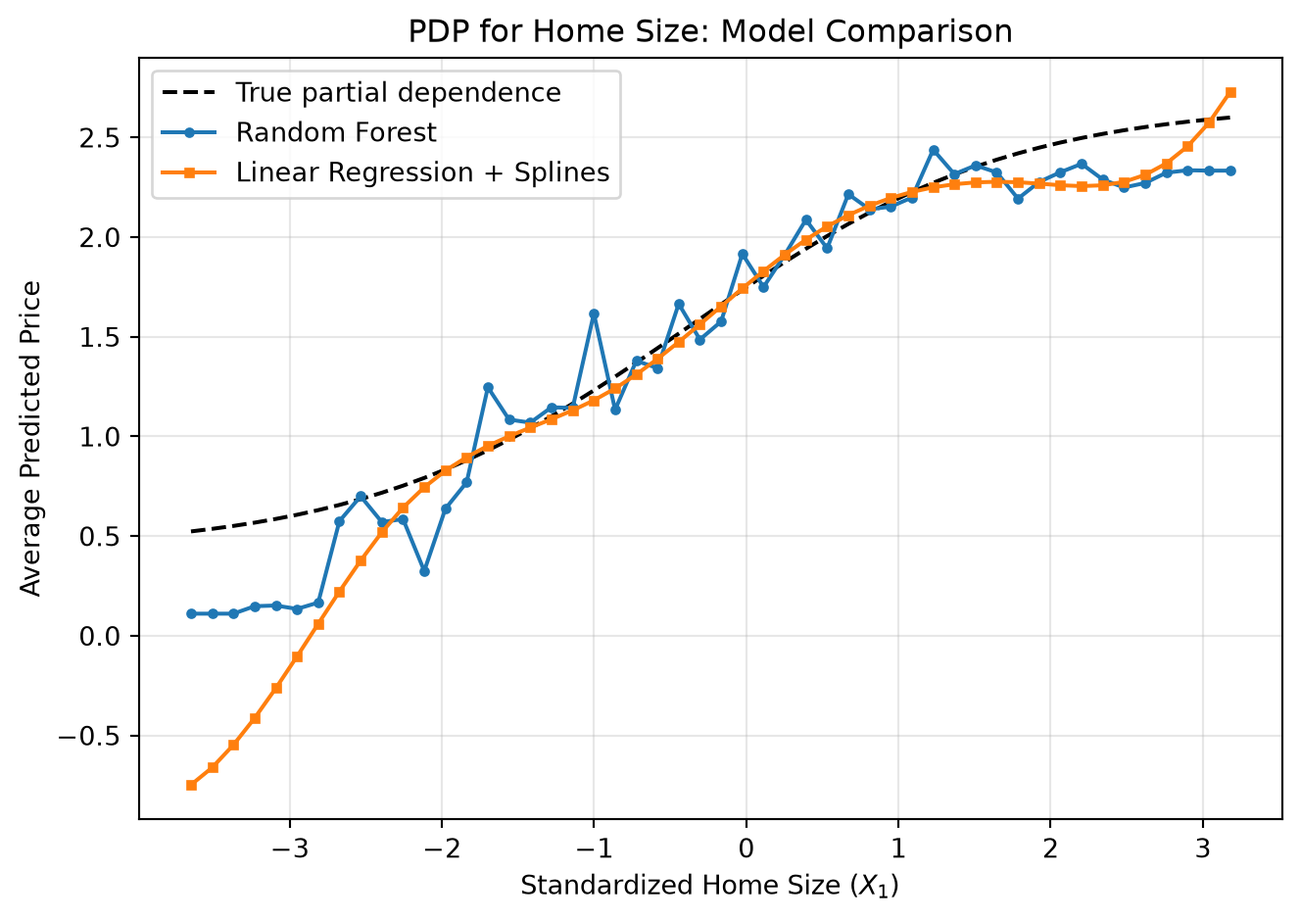
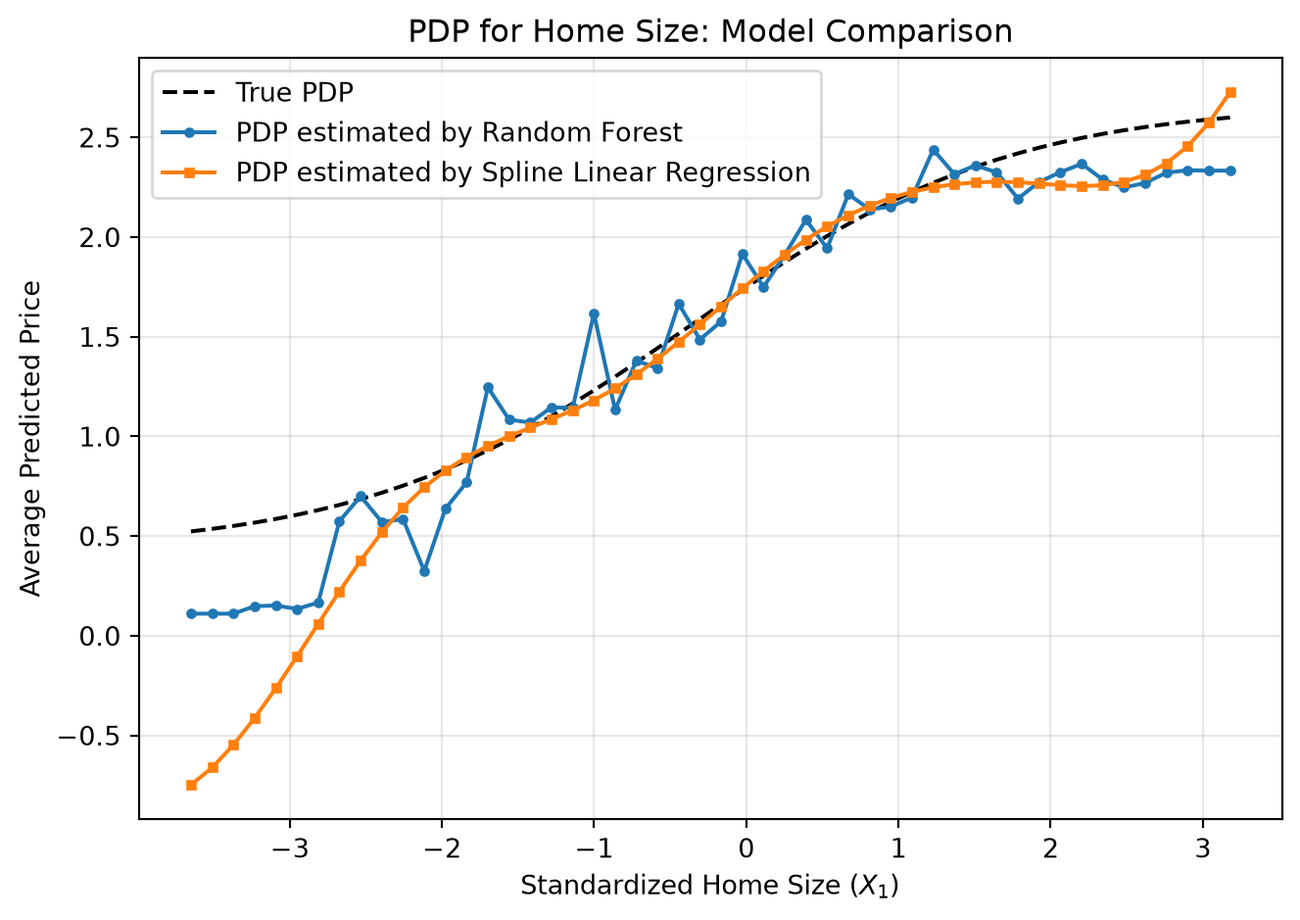
updated commit

Changed region(s): [[0.1854, 0.0927, 0.6488, 0.2162], [0.4943, 0.0618, 0.5561, 0.0927], [0.587, 0.0618, 0.6179, 0.0927]]

diff --git a/_book/visualizing_model_molnar_2022.html b/_book/visualizing_model_molnar_2022.html
@@ -981,7 +981,7 @@ Figure&nbsp;4.3: Example line plot visualizing a roughly linear relationship bet
 </div>
 </div>
 <div class="callout-body-container callout-body">
-<p>To illustrate the Random Forest and Linear Regression with Splines models, data is simulated from the following model:</p>
+<p>To illustrate the Random Forest and Linear Regression with Splines models, data is simulated from the following generating model:</p>
 <p><span class="math display">\[
 \begin{array}{rl}
 E[Y \mid X] &amp;= \sqrt{5}\,\text{sigmoid}(X_1 + X_3) \;+\; \sqrt{5}\,\text{sigmoid}(X_2)\,X_3 \\[4pt]
@@ -1020,42 +1020,51 @@ X_3 &amp;\sim \text{Bernoulli}(p=0.4) \\
 </ul>
 </div>
 </div>
+<p>The following table provides the artificial dataset which will be used to predict average house prices:</p>
 <div id="cell-dgp-setup" class="cell" data-execution_count="4">
 <div class="code-copy-outer-scaffold"><div class="sourceCode cell-code" id="cb4"><pre class="sourceCode python code-with-copy"><code class="sourceCode python"><span id="cb4-1"><a href="#cb4-1" aria-hidden="true" tabindex="-1"></a><span class="im">import</span> numpy <span class="im">as</span> np</span>
 <span id="cb4-2"><a href="#cb4-2" aria-hidden="true" tabindex="-1"></a><span class="im">import</span> pandas <span class="im">as</span> pd</span>
 <span id="cb4-3"><a href="#cb4-3" aria-hidden="true" tabindex="-1"></a></span>
-<span id="cb4-4"><a href="#cb4-4" aria-hidden="true" tabindex="-1"></a>rng <span class="op">=</span> np.random.default_rng(<span class="dv">42</span>)</span>
-<span id="cb4-5"><a href="#cb4-5" aria-hidden="true" tabindex="-1"></a>n <span class="op">=</span> <span class="dv">2000</span></span>
-<span id="cb4-6"><a href="#cb4-6" aria-hidden="true" tabindex="-1"></a></span>
-<span id="cb4-7"><a href="#cb4-7" aria-hidden="true" tabindex="-1"></a><span class="kw">def</span> sigmoid(x):</span>
-<span id="cb4-8"><a href="#cb4-8" aria-hidden="true" tabindex="-1"></a>    <span class="cf">return</span> <span class="dv">1</span> <span class="op">/</span> (<span class="dv">1</span> <span class="op">+</span> np.exp(<span class="op">-</span>x))</span>
-<span id="cb4-9"><a href="#cb4-9" aria-hidden="true" tabindex="-1"></a></span>
-<span id="cb4-10"><a href="#cb4-10" aria-hidden="true" tabindex="-1"></a><span class="co"># X1: standardized home size, X2: home age, X3: renovated (0/1)</span></span>
-<span id="cb4-11"><a href="#cb4-11" aria-hidden="true" tabindex="-1"></a>size_std  <span class="op">=</span> rng.normal(<span class="dv">0</span>, <span class="dv">1</span>, n)</span>
-<span id="cb4-12"><a href="#cb4-12" aria-hidden="true" tabindex="-1"></a>age_std   <span class="op">=</span> rng.normal(<span class="dv">0</span>, <span class="dv">1</span>, n)</span>
-<span id="cb4-13"><a href="#cb4-13" aria-hidden="true" tabindex="-1"></a>renovated <span class="op">=</span> rng.binomial(<span class="dv">1</span>, <span class="fl">0.4</span>, n)</span>
-<span id="cb4-14"><a href="#cb4-14" aria-hidden="true" tabindex="-1"></a></span>
-<span id="cb4-15"><a href="#cb4-15" aria-hidden="true" tabindex="-1"></a><span class="co"># Conditional mean per the specified DGP</span></span>
-<span id="cb4-16"><a href="#cb4-16" aria-hidden="true" tabindex="-1"></a>mean_price <span class="op">=</span> (</span>
-<span id="cb4-17"><a href="#cb4-17" aria-hidden="true" tabindex="-1"></a>    np.sqrt(<span class="dv">5</span>) <span class="op">*</span> sigmoid(size_std <span class="op">+</span> renovated)</span>
-<span id="cb4-18"><a href="#cb4-18" aria-hidden="true" tabindex="-1"></a>    <span class="op">+</span> np.sqrt(<span class="dv">5</span>) <span class="op">*</span> sigmoid(age_std) <span class="op">*</span> renovated</span>
-<span id="cb4-19"><a href="#cb4-19" aria-hidden="true" tabindex="-1"></a>)</span>
-<span id="cb4-20"><a href="#cb4-20" aria-hidden="true" tabindex="-1"></a></span>
-<span id="cb4-21"><a href="#cb4-21" aria-hidden="true" tabindex="-1"></a><span class="co"># V[Y|X] = 1 is the unit-variance noise</span></span>
-<span id="cb4-22"><a href="#cb4-22" aria-hidden="true" tabindex="-1"></a>price <span class="op">=</span> mean_price <span class="op">+</span> rng.normal(<span class="dv">0</span>, <span class="dv">1</span>, n)</span>
-<span id="cb4-23"><a href="#cb4-23" aria-hidden="true" tabindex="-1"></a></span>
-<span id="cb4-24"><a href="#cb4-24" aria-hidden="true" tabindex="-1"></a>df <span class="op">=</span> pd.DataFrame({</span>
-<span id="cb4-25"><a href="#cb4-25" aria-hidden="true" tabindex="-1"></a>    <span class="st">"size_std"</span>: size_std,</span>
-<span id="cb4-26"><a href="#cb4-26" aria-hidden="true" tabindex="-1"></a>    <span class="st">"age_std"</span>: age_std,</span>
-<span id="cb4-27"><a href="#cb4-27" aria-hidden="true" tabindex="-1"></a>    <span class="st">"renovated"</span>: renovated,</span>
-<span id="cb4-28"><a href="#cb4-28" aria-hidden="true" tabindex="-1"></a>    <span class="st">"price"</span>: price</span>
-<span id="cb4-29"><a href="#cb4-29" aria-hidden="true" tabindex="-1"></a>})</span>
-<span id="cb4-30"><a href="#cb4-30" aria-hidden="true" tabindex="-1"></a></span>
-<span id="cb4-31"><a href="#cb4-31" aria-hidden="true" tabindex="-1"></a>X <span class="op">=</span> df[[<span class="st">"size_std"</span>, <span class="st">"age_std"</span>, <span class="st">"renovated"</span>]]</span>
-<span id="cb4-32"><a href="#cb4-32" aria-hidden="true" tabindex="-1"></a>y <span class="op">=</span> df[<span class="st">"price"</span>]</span>
-<span id="cb4-33"><a href="#cb4-33" aria-hidden="true" tabindex="-1"></a></span>
-<span id="cb4-34"><a href="#cb4-34" aria-hidden="true" tabindex="-1"></a>df.head()</span></code></pre></div><button title="Copy to Clipboard" class="code-copy-button"><i class="bi"></i></button></div>
-<div id="dgp-setup" class="cell-output cell-output-display" data-execution_count="67">
+<span id="cb4-4"><a href="#cb4-4" aria-hidden="true" tabindex="-1"></a><span class="co"># create random number generaotr with seed = 42</span></span>
+<span id="cb4-5"><a href="#cb4-5" aria-hidden="true" tabindex="-1"></a>rng <span class="op">=</span> np.random.default_rng(<span class="dv">42</span>)</span>
+<span id="cb4-6"><a href="#cb4-6" aria-hidden="true" tabindex="-1"></a><span class="co"># number of oberservations = 2,000 homes</span></span>
+<span id="cb4-7"><a href="#cb4-7" aria-hidden="true" tabindex="-1"></a>n <span class="op">=</span> <span class="dv">2000</span></span>
+<span id="cb4-8"><a href="#cb4-8" aria-hidden="true" tabindex="-1"></a></span>
+<span id="cb4-9"><a href="#cb4-9" aria-hidden="true" tabindex="-1"></a><span class="co"># create sigmoid function</span></span>
+<span id="cb4-10"><a href="#cb4-10" aria-hidden="true" tabindex="-1"></a><span class="kw">def</span> sigmoid(x):</span>
+<span id="cb4-11"><a href="#cb4-11" aria-hidden="true" tabindex="-1"></a>    <span class="cf">return</span> <span class="dv">1</span> <span class="op">/</span> (<span class="dv">1</span> <span class="op">+</span> np.exp(<span class="op">-</span>x))</span>
+<span id="cb4-12"><a href="#cb4-12" aria-hidden="true" tabindex="-1"></a></span>
+<span id="cb4-13"><a href="#cb4-13" aria-hidden="true" tabindex="-1"></a><span class="co"># X1: standardized home size predictor var</span></span>
+<span id="cb4-14"><a href="#cb4-14" aria-hidden="true" tabindex="-1"></a>size_std  <span class="op">=</span> rng.normal(<span class="dv">0</span>, <span class="dv">1</span>, n)</span>
+<span id="cb4-15"><a href="#cb4-15" aria-hidden="true" tabindex="-1"></a><span class="co"># X2: standardized home age predictor var</span></span>
+<span id="cb4-16"><a href="#cb4-16" aria-hidden="true" tabindex="-1"></a>age_std   <span class="op">=</span> rng.normal(<span class="dv">0</span>, <span class="dv">1</span>, n)</span>
+<span id="cb4-17"><a href="#cb4-17" aria-hidden="true" tabindex="-1"></a><span class="co"># X3: renovated (0/1) predictor var</span></span>
+<span id="cb4-18"><a href="#cb4-18" aria-hidden="true" tabindex="-1"></a>renovated <span class="op">=</span> rng.binomial(<span class="dv">1</span>, <span class="fl">0.4</span>, n)</span>
+<span id="cb4-19"><a href="#cb4-19" aria-hidden="true" tabindex="-1"></a></span>
+<span id="cb4-20"><a href="#cb4-20" aria-hidden="true" tabindex="-1"></a><span class="co"># conditional mean (expectation value of average home price given home characteristics)</span></span>
+<span id="cb4-21"><a href="#cb4-21" aria-hidden="true" tabindex="-1"></a>mean_price <span class="op">=</span> (</span>
+<span id="cb4-22"><a href="#cb4-22" aria-hidden="true" tabindex="-1"></a>    np.sqrt(<span class="dv">5</span>) <span class="op">*</span> sigmoid(size_std <span class="op">+</span> renovated)</span>
+<span id="cb4-23"><a href="#cb4-23" aria-hidden="true" tabindex="-1"></a>    <span class="op">+</span> np.sqrt(<span class="dv">5</span>) <span class="op">*</span> sigmoid(age_std) <span class="op">*</span> renovated</span>
+<span id="cb4-24"><a href="#cb4-24" aria-hidden="true" tabindex="-1"></a>)</span>
+<span id="cb4-25"><a href="#cb4-25" aria-hidden="true" tabindex="-1"></a></span>
+<span id="cb4-26"><a href="#cb4-26" aria-hidden="true" tabindex="-1"></a><span class="co"># create V[Y|X] = 1 is the unit-variance noise</span></span>
+<span id="cb4-27"><a href="#cb4-27" aria-hidden="true" tabindex="-1"></a>price <span class="op">=</span> mean_price <span class="op">+</span> rng.normal(<span class="dv">0</span>, <span class="dv">1</span>, n)</span>
+<span id="cb4-28"><a href="#cb4-28" aria-hidden="true" tabindex="-1"></a></span>
+<span id="cb4-29"><a href="#cb4-29" aria-hidden="true" tabindex="-1"></a><span class="co"># create artificial datatset with key predictors and target column</span></span>
+<span id="cb4-30"><a href="#cb4-30" aria-hidden="true" tabindex="-1"></a>df <span class="op">=</span> pd.DataFrame({</span>
+<span id="cb4-31"><a href="#cb4-31" aria-hidden="true" tabindex="-1"></a>    <span class="st">"size_std"</span>: size_std,</span>
+<span id="cb4-32"><a href="#cb4-32" aria-hidden="true" tabindex="-1"></a>    <span class="st">"age_std"</span>: age_std,</span>
+<span id="cb4-33"><a href="#cb4-33" aria-hidden="true" tabindex="-1"></a>    <span class="st">"renovated"</span>: renovated,</span>
+<span id="cb4-34"><a href="#cb4-34" aria-hidden="true" tabindex="-1"></a>    <span class="st">"price"</span>: price</span>
+<span id="cb4-35"><a href="#cb4-35" aria-hidden="true" tabindex="-1"></a>})</span>
+<span id="cb4-36"><a href="#cb4-36" aria-hidden="true" tabindex="-1"></a></span>
+<span id="cb4-37"><a href="#cb4-37" aria-hidden="true" tabindex="-1"></a><span class="co"># specify predictors</span></span>
+<span id="cb4-38"><a href="#cb4-38" aria-hidden="true" tabindex="-1"></a>X <span class="op">=</span> df[[<span class="st">"size_std"</span>, <span class="st">"age_std"</span>, <span class="st">"renovated"</span>]]</span>
+<span id="cb4-39"><a href="#cb4-39" aria-hidden="true" tabindex="-1"></a><span class="co"># specify target column</span></span>
+<span id="cb4-40"><a href="#cb4-40" aria-hidden="true" tabindex="-1"></a>y <span class="op">=</span> df[<span class="st">"price"</span>]</span>
+<span id="cb4-41"><a href="#cb4-41" aria-hidden="true" tabindex="-1"></a></span>
+<span id="cb4-42"><a href="#cb4-42" aria-hidden="true" tabindex="-1"></a>df.head()</span></code></pre></div><button title="Copy to Clipboard" class="code-copy-button"><i class="bi"></i></button></div>
+<div id="dgp-setup" class="cell-output cell-output-display" data-execution_count="4">
 <div>
 
 
@@ -1114,39 +1123,37 @@ X_3 &amp;\sim \text{Bernoulli}(p=0.4) \\
 <div id="pdp-helper" class="cell" data-execution_count="5">
 <details class="code-fold">
 <summary>Code</summary>
-<div class="code-copy-outer-scaffold"><div class="sourceCode cell-code" id="cb5"><pre class="sourceCode python code-with-copy"><code class="sourceCode python"><span id="cb5-1"><a href="#cb5-1" aria-hidden="true" tabindex="-1"></a><span class="co"># This function estimates the Partial Dependence Plot (PDP) for ONE feature, using ANY already-trained model (random forest, spline regression, etc.). It follows the exact recipe from the PDP definition:</span></span>
-<span id="cb5-2"><a href="#cb5-2" aria-hidden="true" tabindex="-1"></a><span class="co">#   1. Pick a value for the feature of interest (e.g., size = 0.5)</span></span>
+<div class="code-copy-outer-scaffold"><div class="sourceCode cell-code" id="cb5"><pre class="sourceCode python code-with-copy"><code class="sourceCode python"><span id="cb5-1"><a href="#cb5-1" aria-hidden="true" tabindex="-1"></a><span class="co"># This function estimates the Partial Dependence Plot (PDP) for ONE feature, using ANY already-trained model (random forest, spline linear regression, etc.). It follows the exact recipe from the PDP definition:</span></span>
+<span id="cb5-2"><a href="#cb5-2" aria-hidden="true" tabindex="-1"></a><span class="co">#   1. Pick a value for the feature of interest (ex. size = 0.5)</span></span>
 <span id="cb5-3"><a href="#cb5-3" aria-hidden="true" tabindex="-1"></a><span class="co">#   2. Force EVERY house in the dataset to have that size, but leave their other features (age, renovated) exactly as they really are</span></span>
 <span id="cb5-4"><a href="#cb5-4" aria-hidden="true" tabindex="-1"></a><span class="co">#   3. Ask the model to predict price for all of these "edited" houses</span></span>
 <span id="cb5-5"><a href="#cb5-5" aria-hidden="true" tabindex="-1"></a><span class="co">#   4. Average all of those predictions -&gt; this average is one point on the PDP curve</span></span>
 <span id="cb5-6"><a href="#cb5-6" aria-hidden="true" tabindex="-1"></a><span class="co">#   5. Repeat for many different size values to trace out the curve</span></span>
 <span id="cb5-7"><a href="#cb5-7" aria-hidden="true" tabindex="-1"></a></span>
 <span id="cb5-8"><a href="#cb5-8" aria-hidden="true" tabindex="-1"></a><span class="kw">def</span> compute_pdp(model, X, feature, n_grid<span class="op">=</span><span class="dv">50</span>):</span>
-<span id="cb5-9"><a href="#cb5-9" aria-hidden="true" tabindex="-1"></a>    <span class="co"># Build a sequence of values to test for our feature of interest and span from its smallest to largest observed value in the data</span></span>
-<span id="cb5-10"><a href="#cb5-10" aria-hidden="true" tabindex="-1"></a>    <span class="co"># with n_grid evenly spaced points (default: 50 points)</span></span>
-<span id="cb5-11"><a href="#cb5-11" aria-hidden="true" tabindex="-1"></a>    grid <span class="op">=</span> np.linspace(X[feature].<span class="bu">min</span>(), X[feature].<span class="bu">max</span>(), n_grid)</span>
-<span id="cb5-12"><a href="#cb5-12" aria-hidden="true" tabindex="-1"></a></span>
-<span id="cb5-13"><a href="#cb5-13" aria-hidden="true" tabindex="-1"></a>    <span class="co"># Make a copy of the dataset so we don't overwrite the real data</span></span>
-<span id="cb5-14"><a href="#cb5-14" aria-hidden="true" tabindex="-1"></a>    X_temp <span class="op">=</span> X.copy()</span>
-<span id="cb5-15"><a href="#cb5-15" aria-hidden="true" tabindex="-1"></a></span>
-<span id="cb5-16"><a href="#cb5-16" aria-hidden="true" tabindex="-1"></a>    <span class="co"># This will hold the average prediction for each grid value</span></span>
-<span id="cb5-17"><a href="#cb5-17" aria-hidden="true" tabindex="-1"></a>    pdp_vals <span class="op">=</span> np.empty(n_grid)</span>
-<span id="cb5-18"><a href="#cb5-18" aria-hidden="true" tabindex="-1"></a></span>
-<span id="cb5-19"><a href="#cb5-19" aria-hidden="true" tabindex="-1"></a>    <span class="co"># Loop over every candidate value of the feature (every candidate size value)</span></span>
-<span id="cb5-20"><a href="#cb5-20" aria-hidden="true" tabindex="-1"></a>    <span class="cf">for</span> i, val <span class="kw">in</span> <span class="bu">enumerate</span>(grid):</span>
-<span id="cb5-21"><a href="#cb5-21" aria-hidden="true" tabindex="-1"></a>        <span class="co"># overwrite every row's feature value with this single value. So if val = 0.5, every house in X_temp now has size_std = 0.5, but keeps its own real values for other features</span></span>
-<span id="cb5-22"><a href="#cb5-22" aria-hidden="true" tabindex="-1"></a>        X_temp[feature] <span class="op">=</span> val</span>
-<span id="cb5-23"><a href="#cb5-23" aria-hidden="true" tabindex="-1"></a></span>
-<span id="cb5-24"><a href="#cb5-24" aria-hidden="true" tabindex="-1"></a>        <span class="co"># get a prediction for every (edited) house, then average all of those predictions into one number</span></span>
-<span id="cb5-25"><a href="#cb5-25" aria-hidden="true" tabindex="-1"></a>        pdp_vals[i] <span class="op">=</span> model.predict(X_temp).mean()</span>
-<span id="cb5-26"><a href="#cb5-26" aria-hidden="true" tabindex="-1"></a></span>
-<span id="cb5-27"><a href="#cb5-27" aria-hidden="true" tabindex="-1"></a>    <span class="co"># Return the grid of feature values and their matching average predictions. These are the (x, y) points to plot as the PDP</span></span>
-<span id="cb5-28"><a href="#cb5-28" aria-hidden="true" tabindex="-1"></a>    <span class="cf">return</span> grid, pdp_vals</span></code></pre></div><button title="Copy to Clipboard" class="code-copy-button"><i class="bi"></i></button></div>
+<span id="cb5-9"><a href="#cb5-9" aria-hidden="true" tabindex="-1"></a>    <span class="co"># Build a sequence of values to test for our feature of interest and span from its smallest to largest observed value in the data ith n_grid evenly spaced points (default = 50 points)</span></span>
+<span id="cb5-10"><a href="#cb5-10" aria-hidden="true" tabindex="-1"></a>    grid <span class="op">=</span> np.linspace(X[feature].<span class="bu">min</span>(), X[feature].<span class="bu">max</span>(), n_grid)</span>
+<span id="cb5-11"><a href="#cb5-11" aria-hidden="true" tabindex="-1"></a></span>
+<span id="cb5-12"><a href="#cb5-12" aria-hidden="true" tabindex="-1"></a>    <span class="co"># Make a copy of the dataset so we don't overwrite the real data</span></span>
+<span id="cb5-13"><a href="#cb5-13" aria-hidden="true" tabindex="-1"></a>    X_temp <span class="op">=</span> X.copy()</span>
+<span id="cb5-14"><a href="#cb5-14" aria-hidden="true" tabindex="-1"></a></span>
+<span id="cb5-15"><a href="#cb5-15" aria-hidden="true" tabindex="-1"></a>    <span class="co"># This will hold the average prediction for each grid value</span></span>
+<span id="cb5-16"><a href="#cb5-16" aria-hidden="true" tabindex="-1"></a>    pdp_vals <span class="op">=</span> np.empty(n_grid)</span>
+<span id="cb5-17"><a href="#cb5-17" aria-hidden="true" tabindex="-1"></a></span>
+<span id="cb5-18"><a href="#cb5-18" aria-hidden="true" tabindex="-1"></a>    <span class="co"># Loop over every candidate value of the feature (every candidate size value)</span></span>
+<span id="cb5-19"><a href="#cb5-19" aria-hidden="true" tabindex="-1"></a>    <span class="cf">for</span> i, val <span class="kw">in</span> <span class="bu">enumerate</span>(grid):</span>
+<span id="cb5-20"><a href="#cb5-20" aria-hidden="true" tabindex="-1"></a>        <span class="co"># overwrite every row's feature value with this single value. So if val = 0.5, every house in X_temp now has size_std = 0.5, but keeps its own real values for other features</span></span>
+<span id="cb5-21"><a href="#cb5-21" aria-hidden="true" tabindex="-1"></a>        X_temp[feature] <span class="op">=</span> val</span>
+<span id="cb5-22"><a href="#cb5-22" aria-hidden="true" tabindex="-1"></a></span>
+<span id="cb5-23"><a href="#cb5-23" aria-hidden="true" tabindex="-1"></a>        <span class="co"># get a prediction for every (edited) house, then average all of those predictions into one number</span></span>
+<span id="cb5-24"><a href="#cb5-24" aria-hidden="true" tabindex="-1"></a>        pdp_vals[i] <span class="op">=</span> model.predict(X_temp).mean()</span>
+<span id="cb5-25"><a href="#cb5-25" aria-hidden="true" tabindex="-1"></a></span>
+<span id="cb5-26"><a href="#cb5-26" aria-hidden="true" tabindex="-1"></a>    <span class="co"># Return the grid of feature values and their matching average predictions. These are the (x, y) points to plot as the PDP</span></span>
+<span id="cb5-27"><a href="#cb5-27" aria-hidden="true" tabindex="-1"></a>    <span class="cf">return</span> grid, pdp_vals</span></code></pre></div><button title="Copy to Clipboard" class="code-copy-button"><i class="bi"></i></button></div>
 </details>
 </div>
+<p>Since this is generated artifial data, we can calculate the true PDP for this dataset:</p>
 <div id="true-pdp" class="cell" data-execution_count="6">
-<details class="code-fold">
-<summary>Code</summary>
 <div class="code-copy-outer-scaffold"><div class="sourceCode cell-code" id="cb6"><pre class="sourceCode python code-with-copy"><code class="sourceCode python"><span id="cb6-1"><a href="#cb6-1" aria-hidden="true" tabindex="-1"></a><span class="co"># compute_pdp() above estimates the PDP using a select model's predictions but because we made up this data ourselves, we actually know the real mathematical formula that generated it using: E[Y|X] = sqrt(5)*sigmoid(X1 + X3) + sqrt(5)*sigmoid(X2)*X3</span></span>
 <span id="cb6-2"><a href="#cb6-2" aria-hidden="true" tabindex="-1"></a><span class="co"># So instead of relying on a trained model's (imperfect) guesses, we can plug real formula directly and get the true partial dependence. This gives us a benchmark to compare our models against. If a model's PDP is close to this true curve, that's a sign the model is doing a good job at learning how size affects price.</span></span>
 <span id="cb6-3"><a href="#cb6-3" aria-hidden="true" tabindex="-1"></a></span>
@@ -1172,7 +1179,6 @@ X_3 &amp;\sim \text{Bernoulli}(p=0.4) \\
 <span id="cb6-23"><a href="#cb6-23" aria-hidden="true" tabindex="-1"></a></span>
 <span id="cb6-24"><a href="#cb6-24" aria-hidden="true" tabindex="-1"></a><span class="co"># Compute the true PDP curve using the real formula and every house's actual age and bedroom count</span></span>
 <span id="cb6-25"><a href="#cb6-25" aria-hidden="true" tabindex="-1"></a>pdp_truth <span class="op">=</span> true_pdp_size(grid, df[<span class="st">"age_std"</span>].values, df[<span class="st">"renovated"</span>].values)</span></code></pre></div><button title="Copy to Clipboard" class="code-copy-button"><i class="bi"></i></button></div>
-</details>
 </div>
 <section id="random-forest-application" class="level3" data-number="4.3.1">
 <h3 data-number="4.3.1" class="anchored" data-anchor-id="random-forest-application"><span class="header-section-number">4.3.1</span> Random Forest Application:</h3>
@@ -1182,21 +1188,24 @@ X_3 &amp;\sim \text{Bernoulli}(p=0.4) \\
 <div class="code-copy-outer-scaffold"><div class="sourceCode cell-code" id="cb7"><pre class="sourceCode python code-with-copy"><code class="sourceCode python"><span id="cb7-1"><a href="#cb7-1" aria-hidden="true" tabindex="-1"></a><span class="im">from</span> sklearn.ensemble <span class="im">import</span> RandomForestRegressor</span>
 <span id="cb7-2"><a href="#cb7-2" aria-hidden="true" tabindex="-1"></a><span class="im">import</span> matplotlib.pyplot <span class="im">as</span> plt</span>
 <span id="cb7-3"><a href="#cb7-3" aria-hidden="true" tabindex="-1"></a></span>
-<span id="cb7-4"><a href="#cb7-4" aria-hidden="true" tabindex="-1"></a>rf <span class="op">=</span> RandomForestRegressor(n_estimators<span class="op">=</span><span class="dv">500</span>, max_depth<span class="op">=</span><span class="va">None</span>, random_state<span class="op">=</span><span class="dv">42</span>)</span>
-<span id="cb7-5"><a href="#cb7-5" aria-hidden="true" tabindex="-1"></a>rf.fit(X, y)</span>
-<span id="cb7-6"><a href="#cb7-6" aria-hidden="true" tabindex="-1"></a></span>
-<span id="cb7-7"><a href="#cb7-7" aria-hidden="true" tabindex="-1"></a>grid_rf, pdp_rf <span class="op">=</span> compute_pdp(rf, X, <span class="st">"size_std"</span>)</span>
+<span id="cb7-4"><a href="#cb7-4" aria-hidden="true" tabindex="-1"></a><span class="co"># create the ranfom forest regression model</span></span>
+<span id="cb7-5"><a href="#cb7-5" aria-hidden="true" tabindex="-1"></a>rf <span class="op">=</span> RandomForestRegressor(n_estimators<span class="op">=</span><span class="dv">500</span>, max_depth<span class="op">=</span><span class="va">None</span>, random_state<span class="op">=</span><span class="dv">42</span>)</span>
+<span id="cb7-6"><a href="#cb7-6" aria-hidden="true" tabindex="-1"></a><span class="co"># fit the model</span></span>
+<span id="cb7-7"><a href="#cb7-7" aria-hidden="true" tabindex="-1"></a>rf.fit(X, y)</span>
 <span id="cb7-8"><a href="#cb7-8" aria-hidden="true" tabindex="-1"></a></span>
-<span id="cb7-9"><a href="#cb7-9" aria-hidden="true" tabindex="-1"></a>plt.figure(figsize<span class="op">=</span>(<span class="dv">7</span>, <span class="dv">5</span>))</span>
-<span id="cb7-10"><a href="#cb7-10" aria-hidden="true" tabindex="-1"></a>plt.plot(grid_rf, pdp_rf, marker<span class="op">=</span><span class="st">"o"</span>, markersize<span class="op">=</span><span class="dv">3</span>, label<span class="op">=</span><span class="st">"RF estimated PDP"</span>)</span>
-<span id="cb7-11"><a href="#cb7-11" aria-hidden="true" tabindex="-1"></a>plt.plot(grid, pdp_truth, linestyle<span class="op">=</span><span class="st">"--"</span>, color<span class="op">=</span><span class="st">"black"</span>, label<span class="op">=</span><span class="st">"True partial dependence"</span>)</span>
-<span id="cb7-12"><a href="#cb7-12" aria-hidden="true" tabindex="-1"></a>plt.xlabel(<span class="st">"Standardized Home Size ($X_1$)"</span>)</span>
-<span id="cb7-13"><a href="#cb7-13" aria-hidden="true" tabindex="-1"></a>plt.ylabel(<span class="st">"Average Predicted Price"</span>)</span>
-<span id="cb7-14"><a href="#cb7-14" aria-hidden="true" tabindex="-1"></a>plt.title(<span class="st">"PDP for Home Size Using Random Forest"</span>)</span>
-<span id="cb7-15"><a href="#cb7-15" aria-hidden="true" tabindex="-1"></a>plt.legend()</span>
-<span id="cb7-16"><a href="#cb7-16" aria-hidden="true" tabindex="-1"></a>plt.grid(alpha<span class="op">=</span><span class="fl">0.3</span>)</span>
-<span id="cb7-17"><a href="#cb7-17" aria-hidden="true" tabindex="-1"></a>plt.tight_layout()</span>
-<span id="cb7-18"><a href="#cb7-18" aria-hidden="true" tabindex="-1"></a>plt.show()</span></code></pre></div><button title="Copy to Clipboard" class="code-copy-button"><i class="bi"></i></button></div>
+<span id="cb7-9"><a href="#cb7-9" aria-hidden="true" tabindex="-1"></a><span class="co">#create plot</span></span>
+<span id="cb7-10"><a href="#cb7-10" aria-hidden="true" tabindex="-1"></a>grid_rf, pdp_rf <span class="op">=</span> compute_pdp(rf, X, <span class="st">"size_std"</span>)</span>
+<span id="cb7-11"><a href="#cb7-11" aria-hidden="true" tabindex="-1"></a></span>
+<span id="cb7-12"><a href="#cb7-12" aria-hidden="true" tabindex="-1"></a>plt.figure(figsize<span class="op">=</span>(<span class="dv">7</span>, <span class="dv">5</span>))</span>
+<span id="cb7-13"><a href="#cb7-13" aria-hidden="true" tabindex="-1"></a>plt.plot(grid_rf, pdp_rf, marker<span class="op">=</span><span class="st">"o"</span>, markersize<span class="op">=</span><span class="dv">3</span>, label<span class="op">=</span><span class="st">"RF estimated PDP"</span>)</span>
+<span id="cb7-14"><a href="#cb7-14" aria-hidden="true" tabindex="-1"></a>plt.plot(grid, pdp_truth, linestyle<span class="op">=</span><span class="st">"--"</span>, color<span class="op">=</span><span class="st">"black"</span>, label<span class="op">=</span><span class="st">"True partial dependence"</span>)</span>
+<span id="cb7-15"><a href="#cb7-15" aria-hidden="true" tabindex="-1"></a>plt.xlabel(<span class="st">"Standardized Home Size ($X_1$)"</span>)</span>
+<span id="cb7-16"><a href="#cb7-16" aria-hidden="true" tabindex="-1"></a>plt.ylabel(<span class="st">"Average Predicted Price"</span>)</span>
+<span id="cb7-17"><a href="#cb7-17" aria-hidden="true" tabindex="-1"></a>plt.title(<span class="st">"PDP for Home Size Using Random Forest"</span>)</span>
+<span id="cb7-18"><a href="#cb7-18" aria-hidden="true" tabindex="-1"></a>plt.legend()</span>
+<span id="cb7-19"><a href="#cb7-19" aria-hidden="true" tabindex="-1"></a>plt.grid(alpha<span class="op">=</span><span class="fl">0.3</span>)</span>
+<span id="cb7-20"><a href="#cb7-20" aria-hidden="true" tabindex="-1"></a>plt.tight_layout()</span>
+<span id="cb7-21"><a href="#cb7-21" aria-hidden="true" tabindex="-1"></a>plt.show()</span></code></pre></div><button title="Copy to Clipboard" class="code-copy-button"><i class="bi"></i></button></div>
 </details>
 <div class="cell-output cell-output-display">
 <div id="fig-pdp-rf" class="quarto-float quarto-figure quarto-figure-center anchored">
@@ -1211,6 +1220,7 @@ Figure&nbsp;4.4: PDP for home size from a random forest, compared to the true pa
 </div>
 </div>
 </div>
+<p>Overall, the artificial dataset included 2,000 observations was generated from a random number generator with seed = 42. The random forest utilized 5000 trees without beinging constrained to a maximum depth with a fixed seed = 42 for reproducibility.</p>
 </section>
 <section id="linear-regression-with-splines-application" class="level3" data-number="4.3.2">
 <h3 data-number="4.3.2" class="anchored" data-anchor-id="linear-regression-with-splines-application"><span class="header-section-number">4.3.2</span> Linear Regression with Splines Application:</h3>
@@ -1222,29 +1232,30 @@ Figure&nbsp;4.4: PDP for home size from a random forest, compared to the true pa
 <span id="cb8-3"><a href="#cb8-3" aria-hidden="true" tabindex="-1"></a><span class="im">from</span> sklearn.preprocessing <span class="im">import</span> SplineTransformer</span>
 <span id="cb8-4"><a href="#cb8-4" aria-hidden="true" tabindex="-1"></a><span class="im">from</span> sklearn.linear_model <span class="im">import</span> LinearRegression</span>
 <span id="cb8-5"><a href="#cb8-5" aria-hidden="true" tabindex="-1"></a></span>
-<span id="cb8-6"><a href="#cb8-6" aria-hidden="true" tabindex="-1"></a>preprocess <span class="op">=</span> ColumnTransformer([</span>
-<span id="cb8-7"><a href="#cb8-7" aria-hidden="true" tabindex="-1"></a>    (<span class="st">"size_spline"</span>, SplineTransformer(degree<span class="op">=</span><span class="dv">3</span>, n_knots<span class="op">=</span><span class="dv">6</span>), [<span class="st">"size_std"</span>]),</span>
-<span id="cb8-8"><a href="#cb8-8" aria-hidden="true" tabindex="-1"></a>    (<span class="st">"age_spline"</span>,  SplineTransformer(degree<span class="op">=</span><span class="dv">3</span>, n_knots<span class="op">=</span><span class="dv">6</span>), [<span class="st">"age_std"</span>]),</span>
-<span id="cb8-9"><a href="#cb8-9" aria-hidden="true" tabindex="-1"></a>], remainder<span class="op">=</span><span class="st">"passthrough"</span>)</span>
-<span id="cb8-10"><a href="#cb8-10" aria-hidden="true" tabindex="-1"></a></span>
-<span id="cb8-11"><a href="#cb8-11" aria-hidden="true" tabindex="-1"></a>spline_model <span class="op">=</span> Pipeline([</span>
-<span id="cb8-12"><a href="#cb8-12" aria-hidden="true" tabindex="-1"></a>    (<span class="st">"preprocess"</span>, preprocess),</span>
-<span id="cb8-13"><a href="#cb8-13" aria-hidden="true" tabindex="-1"></a>    (<span class="st">"linreg"</span>, LinearRegression())</span>
-<span id="cb8-14"><a href="#cb8-14" aria-hidden="true" tabindex="-1"></a>])</span>
-<span id="cb8-15"><a href="#cb8-15" aria-hidden="true" tabindex="-1"></a>spline_model.fit(X, y)</span>
-<span id="cb8-16"><a href="#cb8-16" aria-hidden="true" tabindex="-1"></a></span>
-<span id="cb8-17"><a href="#cb8-17" aria-hidden="true" tabindex="-1"></a>grid_sp, pdp_sp <span class="op">=</span> compute_pdp(spline_model, X, <span class="st">"size_std"</span>)</span>
-<span id="cb8-18"><a href="#cb8-18" aria-hidden="true" tabindex="-1"></a></span>
-<span id="cb8-19"><a href="#cb8-19" aria-hidden="true" tabindex="-1"></a>plt.figure(figsize<span class="op">=</span>(<span class="dv">7</span>, <span class="dv">5</span>))</span>
-<span id="cb8-20"><a href="#cb8-20" aria-hidden="true" tabindex="-1"></a>plt.plot(grid_sp, pdp_sp, marker<span class="op">=</span><span class="st">"o"</span>, markersize<span class="op">=</span><span class="dv">3</span>, color<span class="op">=</span><span class="st">"tab:orange"</span>, label<span class="op">=</span><span class="st">"Spline Linear Regression Model estimated PDP"</span>)</span>
-<span id="cb8-21"><a href="#cb8-21" aria-hidden="true" tabindex="-1"></a>plt.plot(grid, pdp_truth, linestyle<span class="op">=</span><span class="st">"--"</span>, color<span class="op">=</span><span class="st">"black"</span>, label<span class="op">=</span><span class="st">"True partial dependence"</span>)</span>
-<span id="cb8-22"><a href="#cb8-22" aria-hidden="true" tabindex="-1"></a>plt.xlabel(<span class="st">"Standardized Home Size ($X_1$)"</span>)</span>
-<span id="cb8-23"><a href="#cb8-23" aria-hidden="true" tabindex="-1"></a>plt.ylabel(<span class="st">"Average Predicted Price"</span>)</span>
-<span id="cb8-24"><a href="#cb8-24" aria-hidden="true" tabindex="-1"></a>plt.title(<span class="st">"PDP for Home Size Using Linear Regression with Splines"</span>)</span>
-<span id="cb8-25"><a href="#cb8-25" aria-hidden="true" tabindex="-1"></a>plt.legend()</span>
-<span id="cb8-26"><a href="#cb8-26" aria-hidden="true" tabindex="-1"></a>plt.grid(alpha<span class="op">=</span><span class="fl">0.3</span>)</span>
-<span id="cb8-27"><a href="#cb8-27" aria-hidden="true" tabindex="-1"></a>plt.tight_layout()</span>
-<span id="cb8-28"><a href="#cb8-28" aria-hidden="true" tabindex="-1"></a>plt.show()</span></code></pre></div><button title="Copy to Clipboard" class="code-copy-button"><i class="bi"></i></button></div>
+<span id="cb8-6"><a href="#cb8-6" aria-hidden="true" tabindex="-1"></a><span class="co"># using column trnasofrmers to conduct intilial prepccressing</span></span>
+<span id="cb8-7"><a href="#cb8-7" aria-hidden="true" tabindex="-1"></a>preprocess <span class="op">=</span> ColumnTransformer([</span>
+<span id="cb8-8"><a href="#cb8-8" aria-hidden="true" tabindex="-1"></a>    (<span class="st">"size_spline"</span>, SplineTransformer(degree<span class="op">=</span><span class="dv">3</span>, n_knots<span class="op">=</span><span class="dv">6</span>), [<span class="st">"size_std"</span>]),</span>
+<span id="cb8-9"><a href="#cb8-9" aria-hidden="true" tabindex="-1"></a>    (<span class="st">"age_spline"</span>,  SplineTransformer(degree<span class="op">=</span><span class="dv">3</span>, n_knots<span class="op">=</span><span class="dv">6</span>), [<span class="st">"age_std"</span>]),</span>
+<span id="cb8-10"><a href="#cb8-10" aria-hidden="true" tabindex="-1"></a>], remainder<span class="op">=</span><span class="st">"passthrough"</span>)</span>
+<span id="cb8-11"><a href="#cb8-11" aria-hidden="true" tabindex="-1"></a></span>
+<span id="cb8-12"><a href="#cb8-12" aria-hidden="true" tabindex="-1"></a>spline_model <span class="op">=</span> Pipeline([</span>
+<span id="cb8-13"><a href="#cb8-13" aria-hidden="true" tabindex="-1"></a>    (<span class="st">"preprocess"</span>, preprocess),</span>
+<span id="cb8-14"><a href="#cb8-14" aria-hidden="true" tabindex="-1"></a>    (<span class="st">"linreg"</span>, LinearRegression())</span>
+<span id="cb8-15"><a href="#cb8-15" aria-hidden="true" tabindex="-1"></a>])</span>
+<span id="cb8-16"><a href="#cb8-16" aria-hidden="true" tabindex="-1"></a>spline_model.fit(X, y)</span>
+<span id="cb8-17"><a href="#cb8-17" aria-hidden="true" tabindex="-1"></a></span>
+<span id="cb8-18"><a href="#cb8-18" aria-hidden="true" tabindex="-1"></a>grid_sp, pdp_sp <span class="op">=</span> compute_pdp(spline_model, X, <span class="st">"size_std"</span>)</span>
+<span id="cb8-19"><a href="#cb8-19" aria-hidden="true" tabindex="-1"></a></span>
+<span id="cb8-20"><a href="#cb8-20" aria-hidden="true" tabindex="-1"></a>plt.figure(figsize<span class="op">=</span>(<span class="dv">7</span>, <span class="dv">5</span>))</span>
+<span id="cb8-21"><a href="#cb8-21" aria-hidden="true" tabindex="-1"></a>plt.plot(grid_sp, pdp_sp, marker<span class="op">=</span><span class="st">"o"</span>, markersize<span class="op">=</span><span class="dv">3</span>, color<span class="op">=</span><span class="st">"tab:orange"</span>, label<span class="op">=</span><span class="st">"Spline Linear Regression Model estimated PDP"</span>)</span>
+<span id="cb8-22"><a href="#cb8-22" aria-hidden="true" tabindex="-1"></a>plt.plot(grid, pdp_truth, linestyle<span class="op">=</span><span class="st">"--"</span>, color<span class="op">=</span><span class="st">"black"</span>, label<span class="op">=</span><span class="st">"True partial dependence"</span>)</span>
+<span id="cb8-23"><a href="#cb8-23" aria-hidden="true" tabindex="-1"></a>plt.xlabel(<span class="st">"Standardized Home Size ($X_1$)"</span>)</span>
+<span id="cb8-24"><a href="#cb8-24" aria-hidden="true" tabindex="-1"></a>plt.ylabel(<span class="st">"Average Predicted Price"</span>)</span>
+<span id="cb8-25"><a href="#cb8-25" aria-hidden="true" tabindex="-1"></a>plt.title(<span class="st">"PDP for Home Size Using Linear Regression with Splines"</span>)</span>
+<span id="cb8-26"><a href="#cb8-26" aria-hidden="true" tabindex="-1"></a>plt.legend()</span>
+<span id="cb8-27"><a href="#cb8-27" aria-hidden="true" tabindex="-1"></a>plt.grid(alpha<span class="op">=</span><span class="fl">0.3</span>)</span>
+<span id="cb8-28"><a href="#cb8-28" aria-hidden="true" tabindex="-1"></a>plt.tight_layout()</span>
+<span id="cb8-29"><a href="#cb8-29" aria-hidden="true" tabindex="-1"></a>plt.show()</span></code></pre></div><button title="Copy to Clipboard" class="code-copy-button"><i class="bi"></i></button></div>
 </details>
 <div class="cell-output cell-output-display">
 <div id="fig-pdp-spline" class="quarto-float quarto-figure quarto-figure-center anchored">
@@ -1259,6 +1270,7 @@ Figure&nbsp;4.5: PDP for home size from a linear regression with splines, compar
 </div>
 </div>
 </div>
+<p>The spline linear regression is linear regression applied to spline-transformed predictors, allowing the model to represent smooth nonlinear relationships between the original predictors and the response.</p>
 </section>
 <section id="model-comparison-results" class="level3" data-number="4.3.3">
 <h3 data-number="4.3.3" class="anchored" data-anchor-id="model-comparison-results"><span class="header-section-number">4.3.3</span> Model Comparison Results:</h3>
@@ -1266,9 +1278,9 @@ Figure&nbsp;4.5: PDP for home size from a linear regression with splines, compar
 <details class="code-fold">
 <summary>Code</summary>
 <div class="code-copy-outer-scaffold"><div class="sourceCode cell-code" id="cb9"><pre class="sourceCode python code-with-copy"><code class="sourceCode python"><span id="cb9-1"><a href="#cb9-1" aria-hidden="true" tabindex="-1"></a>plt.figure(figsize<span class="op">=</span>(<span class="dv">7</span>, <span class="dv">5</span>))</span>
-<span id="cb9-2"><a href="#cb9-2" aria-hidden="true" tabindex="-1"></a>plt.plot(grid, pdp_truth, linestyle<span class="op">=</span><span class="st">"--"</span>, color<span class="op">=</span><span class="st">"black"</span>, label<span class="op">=</span><span class="st">"True partial dependence"</span>)</span>
-<span id="cb9-3"><a href="#cb9-3" aria-hidden="true" tabindex="-1"></a>plt.plot(grid_rf, pdp_rf, marker<span class="op">=</span><span class="st">"o"</span>, markersize<span class="op">=</span><span class="dv">3</span>, label<span class="op">=</span><span class="st">"Random Forest"</span>)</span>
-<span id="cb9-4"><a href="#cb9-4" aria-hidden="true" tabindex="-1"></a>plt.plot(grid_sp, pdp_sp, marker<span class="op">=</span><span class="st">"s"</span>, markersize<span class="op">=</span><span class="dv">3</span>, label<span class="op">=</span><span class="st">"Linear Regression + Splines"</span>)</span>
+<span id="cb9-2"><a href="#cb9-2" aria-hidden="true" tabindex="-1"></a>plt.plot(grid, pdp_truth, linestyle<span class="op">=</span><span class="st">"--"</span>, color<span class="op">=</span><span class="st">"black"</span>, label<span class="op">=</span><span class="st">"True PDP"</span>)</span>
+<span id="cb9-3"><a href="#cb9-3" aria-hidden="true" tabindex="-1"></a>plt.plot(grid_rf, pdp_rf, marker<span class="op">=</span><span class="st">"o"</span>, markersize<span class="op">=</span><span class="dv">3</span>, label<span class="op">=</span><span class="st">"PDP estimated by Random Forest"</span>)</span>
+<span id="cb9-4"><a href="#cb9-4" aria-hidden="true" tabindex="-1"></a>plt.plot(grid_sp, pdp_sp, marker<span class="op">=</span><span class="st">"s"</span>, markersize<span class="op">=</span><span class="dv">3</span>, label<span class="op">=</span><span class="st">"PDP estimated by Spline Linear Regression"</span>)</span>
 <span id="cb9-5"><a href="#cb9-5" aria-hidden="true" tabindex="-1"></a>plt.xlabel(<span class="st">"Standardized Home Size ($X_1$)"</span>)</span>
 <span id="cb9-6"><a href="#cb9-6" aria-hidden="true" tabindex="-1"></a>plt.ylabel(<span class="st">"Average Predicted Price"</span>)</span>
 <span id="cb9-7"><a href="#cb9-7" aria-hidden="true" tabindex="-1"></a>plt.title(<span class="st">"PDP for Home Size: Model Comparison"</span>)</span>
@@ -1290,6 +1302,7 @@ Figure&nbsp;4.6: Comparison of estimated PDPs for home size across models, again
 </div>
 </div>
 </div>
+<p>According to the True PDP, larger homes tend to have higher predicted prices. The PDPs show that both models learn the general positive and nonlinear relationship between standardized home size and predicted price. As home size increases, the average predicted price increases, with the rate of increase gradually diminishing at larger home sizes. The Random Forest captures the overall trend but produces a more irregular PDP due to the piecewise nature of tree-based predictions. The spline-based linear regression produces a smoother PDP and closely follows the true partial-dependence curve through the central range of the data, but it deviates substantially near the extremes where fewer observations are available.</p>
 
 
 <div id="refs" class="references csl-bib-body hanging-indent" role="list" style="display: none">
